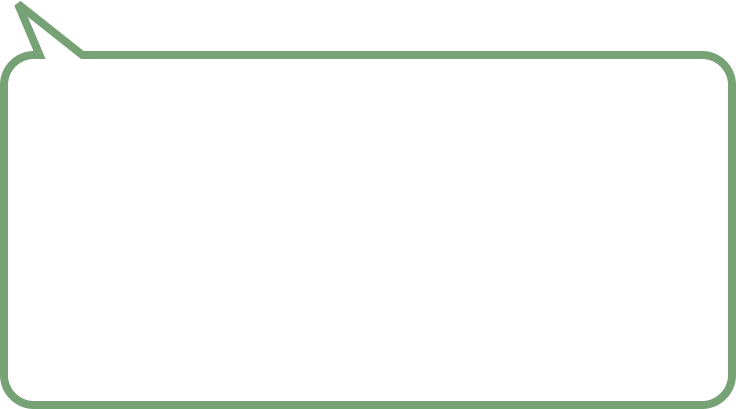
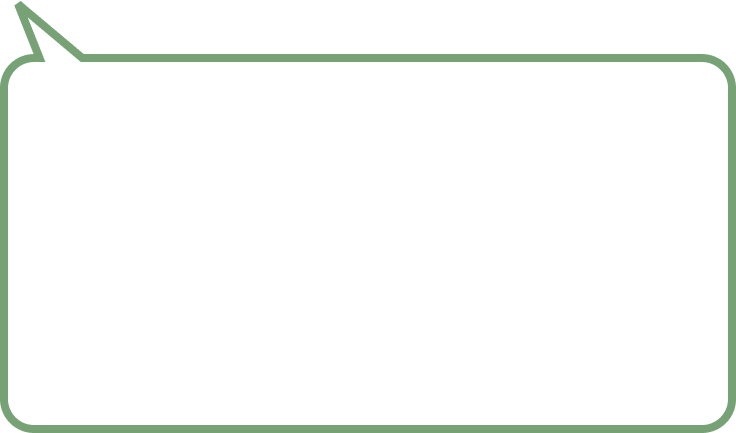
update #game_start_txt text

diff --git a/css/index.css b/css/index.css
@@ -171,7 +171,7 @@ main {
     background-repeat: no-repeat;
     background-size: cover;
     width: 364px;
-    height: 200.5px;
+    height: 214px;
     position: absolute;
     right: 19px;
     bottom: 44px;
@@ -181,10 +181,10 @@ main {
 #game_start_txt {
     position: absolute;
     right: 16px;
-    bottom: 19px;
+    bottom: 32px;
     width: 325px;
-    font-size: 24px;
-    line-height: 35px;
+    font-size: 22px;
+    line-height: 30px;
     color: #5E895E;
 }
 
@@ -1164,15 +1164,15 @@ span {
     }
 
     #game_start_dialogbox {
-        width: 300.118px;
-        height: 165.312px;
+        width: 306px;
+        height: 180px;
         right: 19px;
-        bottom: 44px;
+        bottom: 26px;
     }
 
     #game_start_txt {
-        right: 14px;
-        bottom: 19px;
+        right: 16px;
+        bottom: 25px;
         width: 270px;
         font-size: 18.638px;
         line-height: 26.021px;
@@ -1642,15 +1642,15 @@ span {
     }
 
     #game_start_dialogbox {
-        width: 52.285vw;
-        height: 28.8vw;
+        width: 52vw;
+        height: 30.5vw;
         right: 3vw;
-        bottom: 6vw;
+        bottom: 4vw;
     }
 
     #game_start_txt {
-        right: 2.1vw;
-        bottom: 3.8vw;
+        right: 1.4vw;
+        bottom: 4vw;
         width: 47.5vw;
         font-size: 3.2vw;
         line-height: 4.533vw;

diff --git a/index.html b/index.html
@@ -82,7 +82,9 @@
                     <img src="./images/startbtn.png" alt="start btn">
                 </div>
                 <div id="game_start_dialogbox">
-                    <div id="game_start_txt">為增進民眾對於國際快遞或郵包途徑之檢疫宣導知曉度，讓民眾更了解違規動植物產品，提升防檢疫相關資訊認知</div>
+                    <div id="game_start_txt">一起加入，成為動植物檢疫的守門員吧！<br>
+                        通過三個關卡，即可抽Line Points以及精美獎品唷！
+                    </div>
                 </div>
             </div>
             <div id="game_round1">
@@ -151,7 +153,8 @@
                     <div class="img_100 round2_answer" id="round2_q2_sausage"><img src="./images/sausage.png"
                             alt="sausage"></div>
                     <div class="img_100 round2_answer" id="round2_q2_egg"><img src="./images/egg.png" alt="egg"></div>
-                    <div class="img_100 round2_answer" id="round2_q2_noodle"><img src="./images/noodle.png" alt="noodle">
+                    <div class="img_100 round2_answer" id="round2_q2_noodle"><img src="./images/noodle.png"
+                            alt="noodle">
                     </div>
                 </div>
                 <div id="round2_q3" class="fade_in_round2">

diff --git a/index_jq.html b/index_jq.html
@@ -80,8 +80,9 @@
                     <img src="./images/startbtn.png" alt="start btn">
                 </div>
                 <div id="game_start_dialogbox">
-                    <div id="game_start_txt">為增進民眾對於國際快遞或郵包途徑之檢疫宣導知曉度，讓民眾更了解違規動植物產品，提升防檢疫相關資訊認知</div>
-                </div>
+                    <div id="game_start_txt">一起加入，成為動植物檢疫的守門員吧！<br>
+                        通過三個關卡，即可抽 Line Points、以及防檢局貝果系列的獎品唷！</div>
+                    </div>
             </div>
             <div id="game_round1">
                 <div id="game1_start"></div>

diff --git a/index_axios.html b/index_axios.html
@@ -82,7 +82,9 @@
                     <img src="./images/startbtn.png" alt="start btn">
                 </div>
                 <div id="game_start_dialogbox">
-                    <div id="game_start_txt">為增進民眾對於國際快遞或郵包途徑之檢疫宣導知曉度，讓民眾更了解違規動植物產品，提升防檢疫相關資訊認知</div>
+                    <div id="game_start_txt">一起加入，成為動植物檢疫的守門員吧！<br>
+                        通過三個關卡，即可抽Line Points、以及防檢局貝果系列的獎品唷！
+                    </div>
                 </div>
             </div>
             <div id="game_round1">
